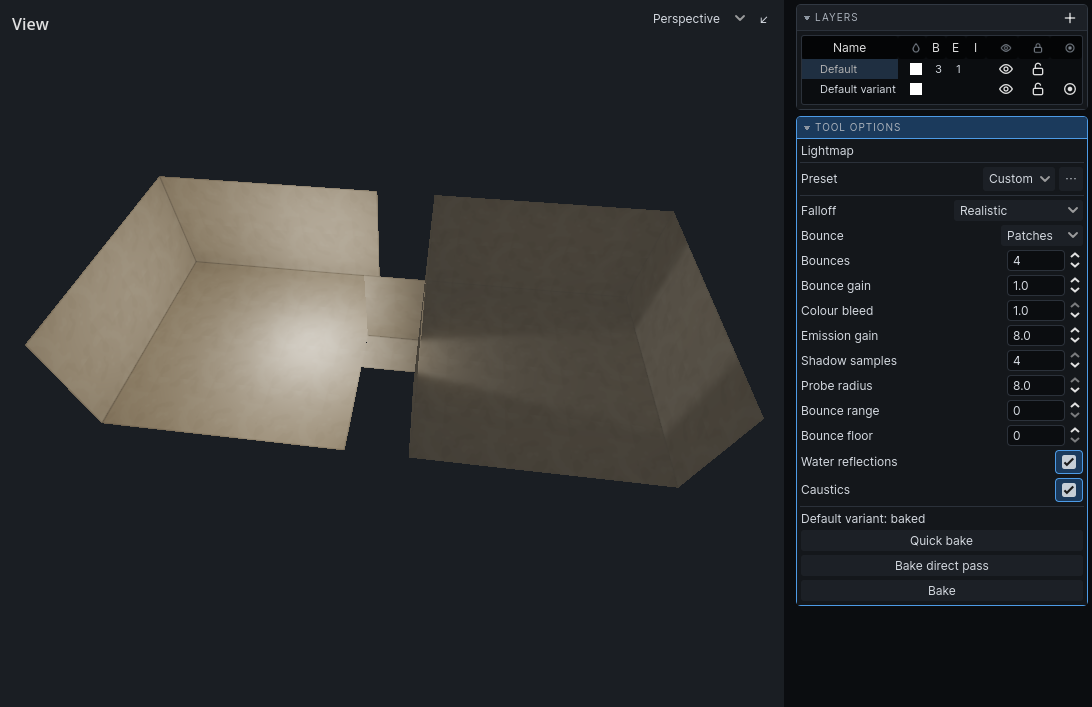
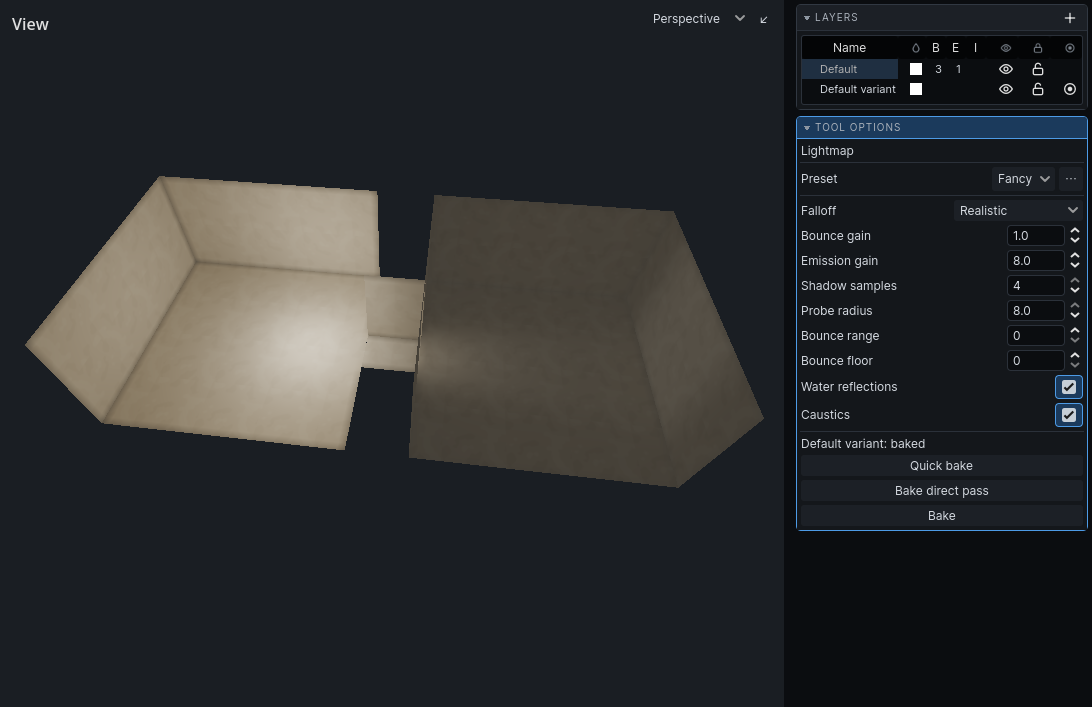
Lightmapper post: light through stained glass, and the probe bounce gone
A section on semi-transparent textures, with sun through a 13th-century panel from the Met's
public-domain collection casting coloured light on the floor and wall. The probe bounce is
described as removed, and the Lightmap panel's picture is retaken without Bounce and Colour bleed.

diff --git a/blog/lightmapper/index.html b/blog/lightmapper/index.html
@@ -238,6 +238,32 @@
 		BT.709 luma of the light, because its colour is applied when the level is drawn. That is what lets a
 		lamp change colour at runtime.</p>
 
+		<h2>Light through glass</h2>
+		<p>A texture whose name starts with <code>!</code> can be seen through wherever its alpha is below
+		one. Most are cut-outs, a grate or a railing, opaque or clear, but nothing stops the alpha from
+		lying in between, and the bake reads it as glass. When a shadow ray crosses such a face it looks up
+		the texel it hit. The alpha a says how much of the light the glass covers, and the colour c tints
+		the part it covers:</p>
+		<p class="formula">through = (1 − a) · mix(1, c, a)</p>
+		<p>The colour is weighted by the alpha because the colour under an alpha of zero is whatever the
+		image editor left there, usually black, which would make a clear hole as dark as a lead bar. A ray
+		goes through up to three such surfaces and takes the colour of each. A pane built as a thin brush
+		is crossed twice, by its front face and its back face, so its colour counts twice.</p>
+
+		<figure>
+			<img src="stained-glass.jpg" alt="A tall room lit only by the sun through a stained glass window in its left wall. The window's red, blue, green and yellow figures fall on the floor and run up the far wall as coloured light, and the walls around glow faintly warm with its bounce" width="1000" height="689" loading="lazy">
+			<figcaption>Sun through a stained glass window, baked at one unit a texel and shown through AgX
+			at a lower exposure, since the patch is far brighter than the room. The glass is a French panel
+			from about 1270, <a href="https://www.metmuseum.org/art/collection/search/26846">in the
+			Metropolitan Museum of Art</a>, whose photograph is in the public domain.</figcaption>
+		</figure>
+
+		<p>To make the texture, the lead and the painted lines were given an alpha of 1 and the glass 0.85, and
+		the glass's colour was scaled up to full strength, since the alpha already says how dark it is.
+		The bake samples the texture at its own resolution, so the figures land on the floor sharp, as long
+		as the floor's texels are fine enough to hold them. The coloured light then bounces like any other,
+		and the walls around the room take a little of its warmth.</p>
+
 		<h2>Bounce: hierarchical radiosity</h2>
 		<p>In classic radiosity every patch sends light to every other patch it can see, weighted by the
 		<em>form factor</em>, the share of one surface that another one sees:</p>
@@ -307,9 +333,9 @@
 		sixteen. A closed grey room gives back 0.995 of what infinitely many bounces can, where patches of one
 		size gave back 0.94. The probe bounce Hammerite used before gave back 1.08 at four bounces, more
 		light than a room has, and a hall under a lamp grew brighter with every bounce after that.</p>
-		<p>Probes are still baked, from the same light, for the things that move. The Lightmap panel's
-		<em>Bounce</em> setting chooses between the probe bounce and the patches. Every picture in this post
-		is baked with the patches.</p>
+		<p>The probe bounce is gone now. Probes are still baked for the things that move, but they no longer
+		bounce light between themselves and paint it back onto the walls. Once the walls' bounce has settled,
+		each probe gathers once from the walls around it, so a guard is lit by the light the walls show.</p>
 
 		<h2>Four light slots</h2>
 		<p>Each atlas has a <strong>static texture</strong> in RGB, for the light that never changes:
@@ -493,7 +519,7 @@
 		can be saved as presets of your own.</p>
 
 		<figure>
-			<img src="lighting-bake.png" alt="The Hammerite editor with the Lightmap panel set to bounce with patches, showing the bake settings beside two lit rooms" width="1092" height="707" loading="lazy">
+			<img src="lighting-bake.png" alt="The Hammerite editor with the Lightmap panel on its Fancy preset, showing the bake settings beside two lit rooms" width="1092" height="707" loading="lazy">
 			<figcaption>The lightmap tool in the editor.</figcaption>
 		</figure>
 
@@ -515,11 +541,10 @@
 
 		<h2>Numbers</h2>
 		<p>My reference level is large: 7,240 brushes, about 130,000 walls, 4.4 million patches, 54,000
-		probes and 736 lights. With the patches, its walls make 2.9 million nodes, two million of them
+		probes and 736 lights. Its walls make 2.9 million nodes, two million of them
 		leaves, joined by 54 million links, and the bounce takes about two and a half minutes. A full bake
-		with the probe bounce, on a GTX 1070 Ti, takes about 22 minutes. It used to take
-		over two and a half hours, before the gather clustering and before the atlases were written in
-		native code.</p>
+		used to take over two and a half hours. The gather clustering and writing the atlases in native code
+		brought it to about 22 minutes on a GTX 1070 Ti, with the probe bounce Hammerite used then.</p>
 
 		<h2>Limits</h2>
 		<ul>
